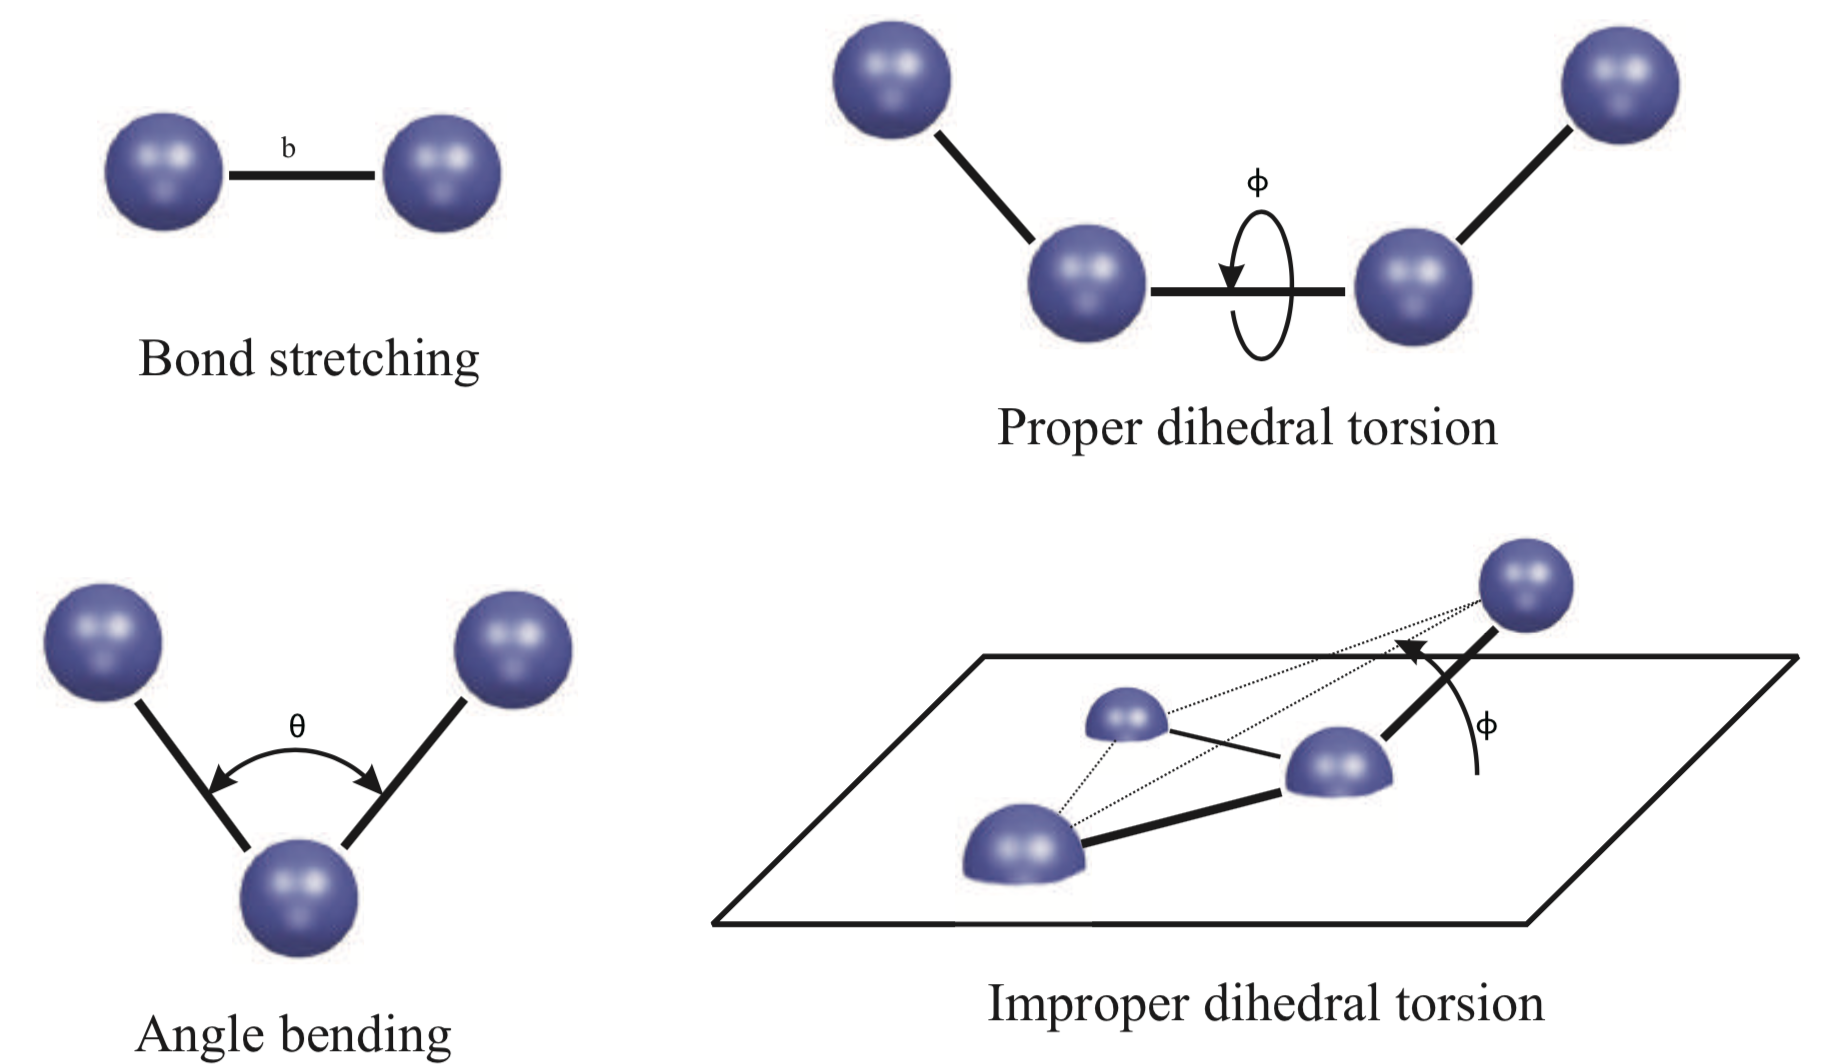
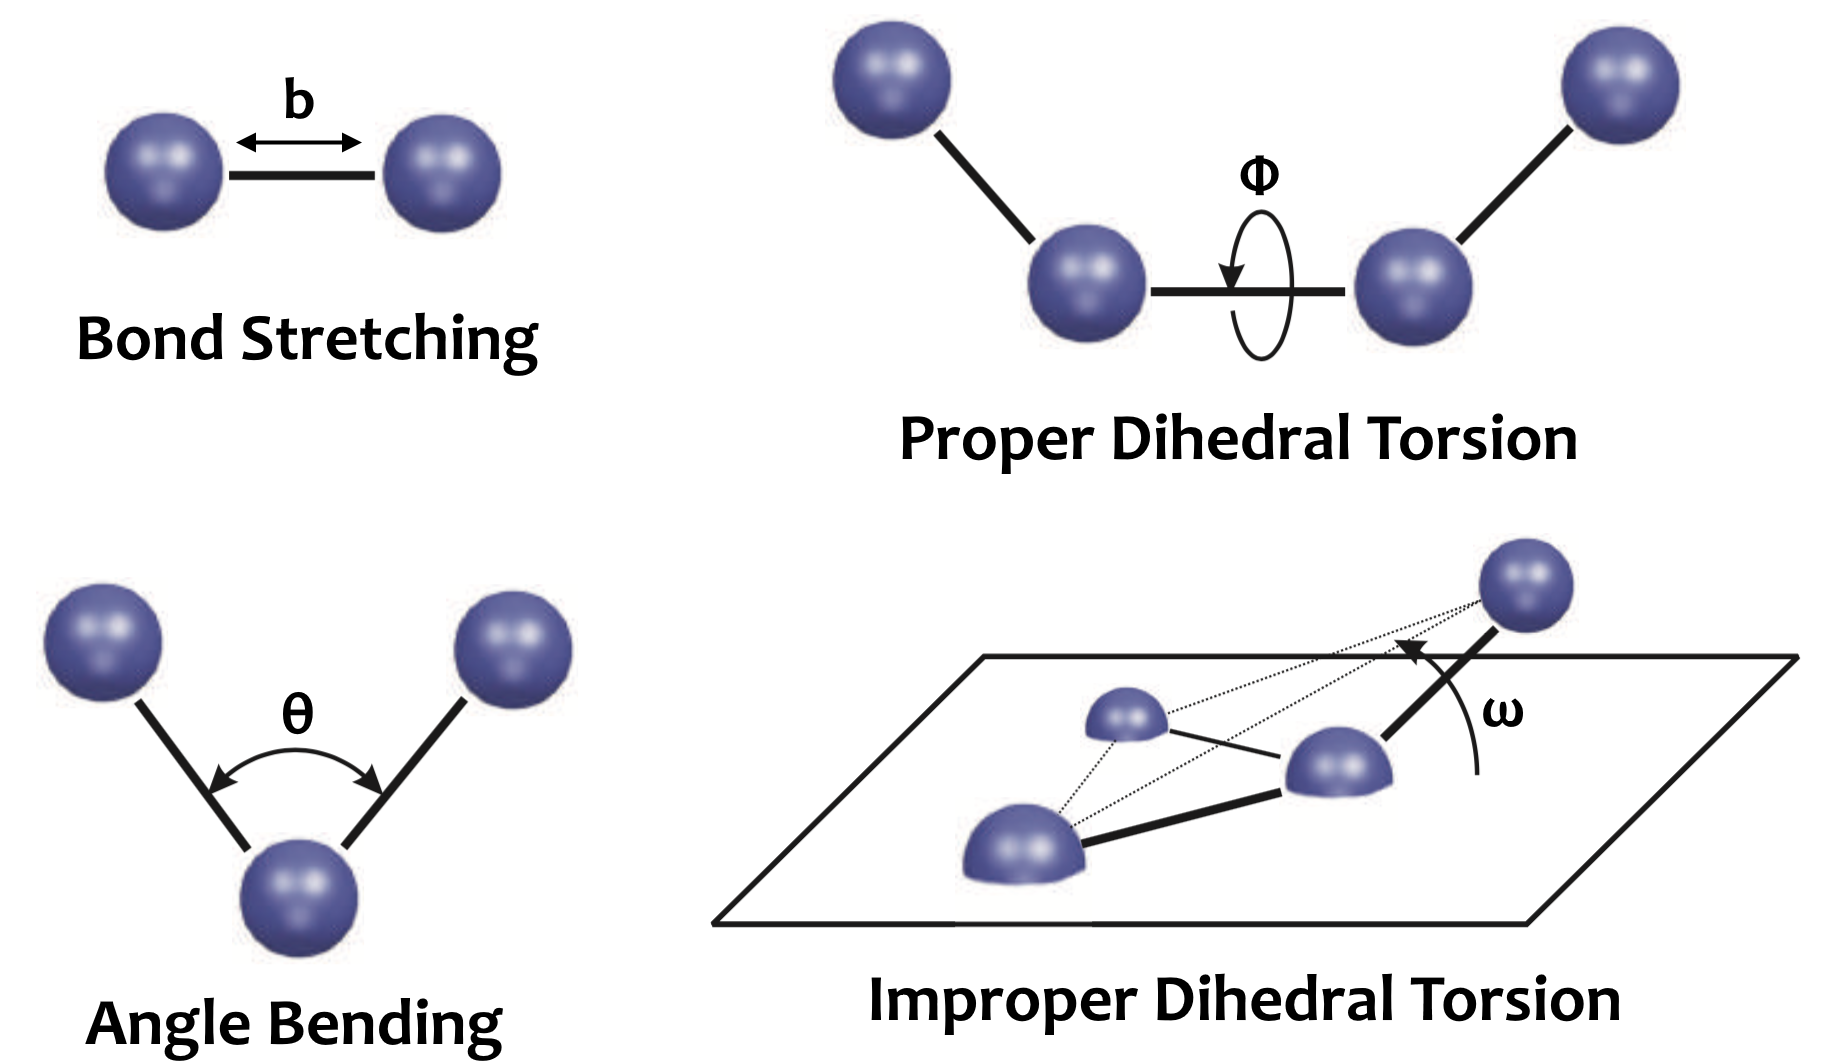
fixed images in chap. 2

diff --git a/2-Software_used_for_the_simulations.tex b/2-Software_used_for_the_simulations.tex
@@ -129,18 +129,11 @@ U \: = \: U_{\text{bonded}} \, + \, U_{\text{non-bonded}}
 The bonded potential $U_{\text{bonded}}$ involve 2 , 3, and 4-body interactions of covalently bonded atoms, with $O(N)$ terms in the summation.\footnote{Indeed, the number of covalent bound is proportional to the number of atoms.}
 The non-bonded potential $U_{\text{non-bonded}}$ involves long-range interactions between all pairs of atoms (usually excluding pairs of atoms already involved in a bonded term), with $O(N^2)$ terms in the summation, although fast evaluation techniques are used to compute good approximations to their contribution to the potential with $O(N)$ or $O(N$ log $N )$ computational cost. The different terms will be explained in more detail in following sections.
 
-\vspace{0.25cm}
-
-\begin{center}
-{\textbf{\textit{Bonded potential terms}}}
-\end{center}
-The bonded potential describes the stretching, bending, and torsional of the covalent bonds. 
-
 \begin{figure}[H]
 \centering
 \begin{minipage}[t]{0.725\textwidth}
 	\centering
-    \includegraphics[width=0.85\textwidth]{bounded_interactions.png}
+    \includegraphics[width=0.725\textwidth]{bounded_interactions.png}
     
     \footnotesize{\caption{Schematic representation of the bonded interaction terms contributing to the force field.
     %: bond stretching, angle bending, proper and improper dihedrals.
@@ -150,6 +143,13 @@ The bonded potential describes the stretching, bending, and torsional of the cov
     }
 \end{minipage} 
 \end{figure}
+
+\begin{center}
+{\textbf{\textit{Bonded potential terms}}}
+\end{center}
+The bonded potential describes the stretching, bending, and torsional of the covalent bonds. 
+
+
 
 \begin{itemize}
 \item[$\blacktriangleright$] \textbf{Bond stretching:}\\
@@ -264,8 +264,6 @@ Finally, the equation for the potential energy describing the force field can be
 \subsubsection{Boundary condition}
 To avoid surface effects at the boundary of the simulated system, periodic boundary conditions are often used in MD simulations; the particles are enclosed in a cell that is replicated to infinity by periodic translations. A particle that leaves the cell on one side is replaced by a copy entering the cell on the opposite side, and each particle is subject to the potential from all other particles in the system including images in the surrounding cells, thus entirely eliminating surface effects (but not finite-size effects). Because every cell is an identical copy of all the others, all the image particles move together, consequently they should be represented only once inside the molecular dynamics code.
 
-However, because the van der Waals and electrostatic interactions exist between every nonbonded pair of atoms in the system (including those in neighboring cells) computing the long-range interaction exactly is unfeasible. To perform this computation, the van der Waals interaction is spatially truncated at a user-specified cutoff distance. For a simulation using periodic boundary conditions, the system periodicity is exploited to compute the full (nontruncated) electrostatic interaction with minimal additional cost using the particle-mesh Ewald (PME) method described in the next paragraph.
-
 \begin{figure}[H]
 \centering
 \begin{minipage}[t]{0.75\textwidth}
@@ -280,6 +278,8 @@ However, because the van der Waals and electrostatic interactions exist between 
 \end{minipage} 
 \end{figure}
 
+However, because the van der Waals and electrostatic interactions exist between every nonbonded pair of atoms in the system (including those in neighboring cells) computing the long-range interaction exactly is unfeasible. To perform this computation, the van der Waals interaction is spatially truncated at a user-specified cutoff distance. For a simulation using periodic boundary conditions, the system periodicity is exploited to compute the full (nontruncated) electrostatic interaction with minimal additional cost using the particle-mesh Ewald (PME) method described in the next paragraph.
+
 \vspace{0.25cm}
 
 \begin{center}
@@ -288,7 +288,7 @@ However, because the van der Waals and electrostatic interactions exist between 
 Ewald summation is a description of the long-range electrostatic interactions for a spatially limited system with periodic boundary conditions. The infinite sum of charge-charge interactions for a charge-neutral system is conditionally convergent, meaning that the result of the summation depends on the order in which it is taken. Ewald summation specifies the order as follows: sum over each box first, then sum over spheres of boxes of increasingly larger radii. Ewald summation is considered more reliable than a cutoff scheme, although it is noted that the artificial periodicity can lead to bias in free energy, and can artificially stabilize a protein that should have unfolded quickly.
 \begin{figure}[H]
 \centering
-\begin{minipage}[t]{0.8\textwidth}
+\begin{minipage}[t]{0.775\textwidth}
 	\centering
     \includegraphics[width=0.325\textwidth]{PME.png}
     
